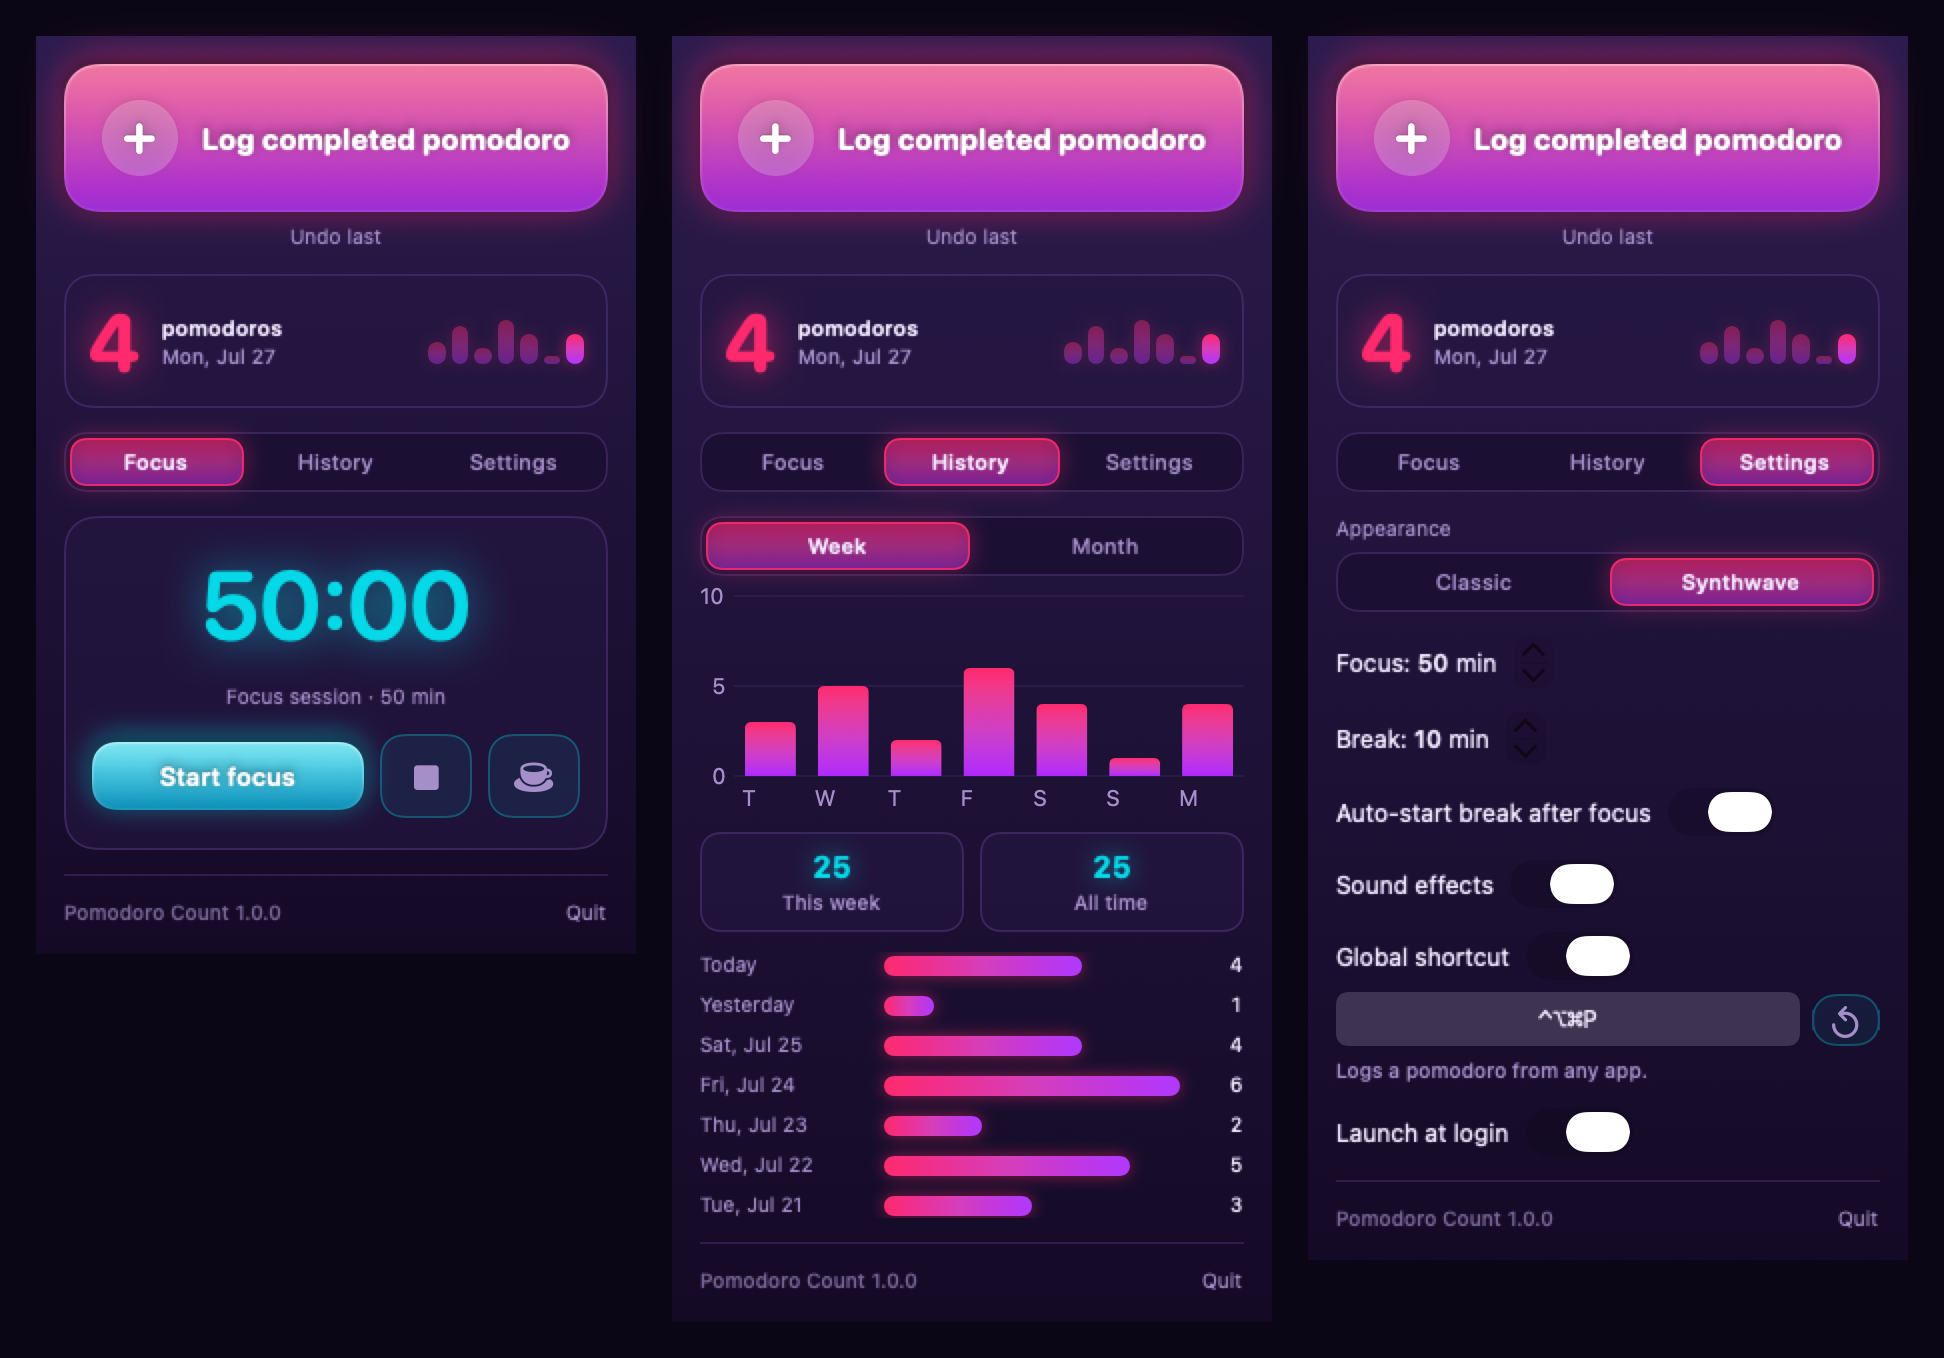
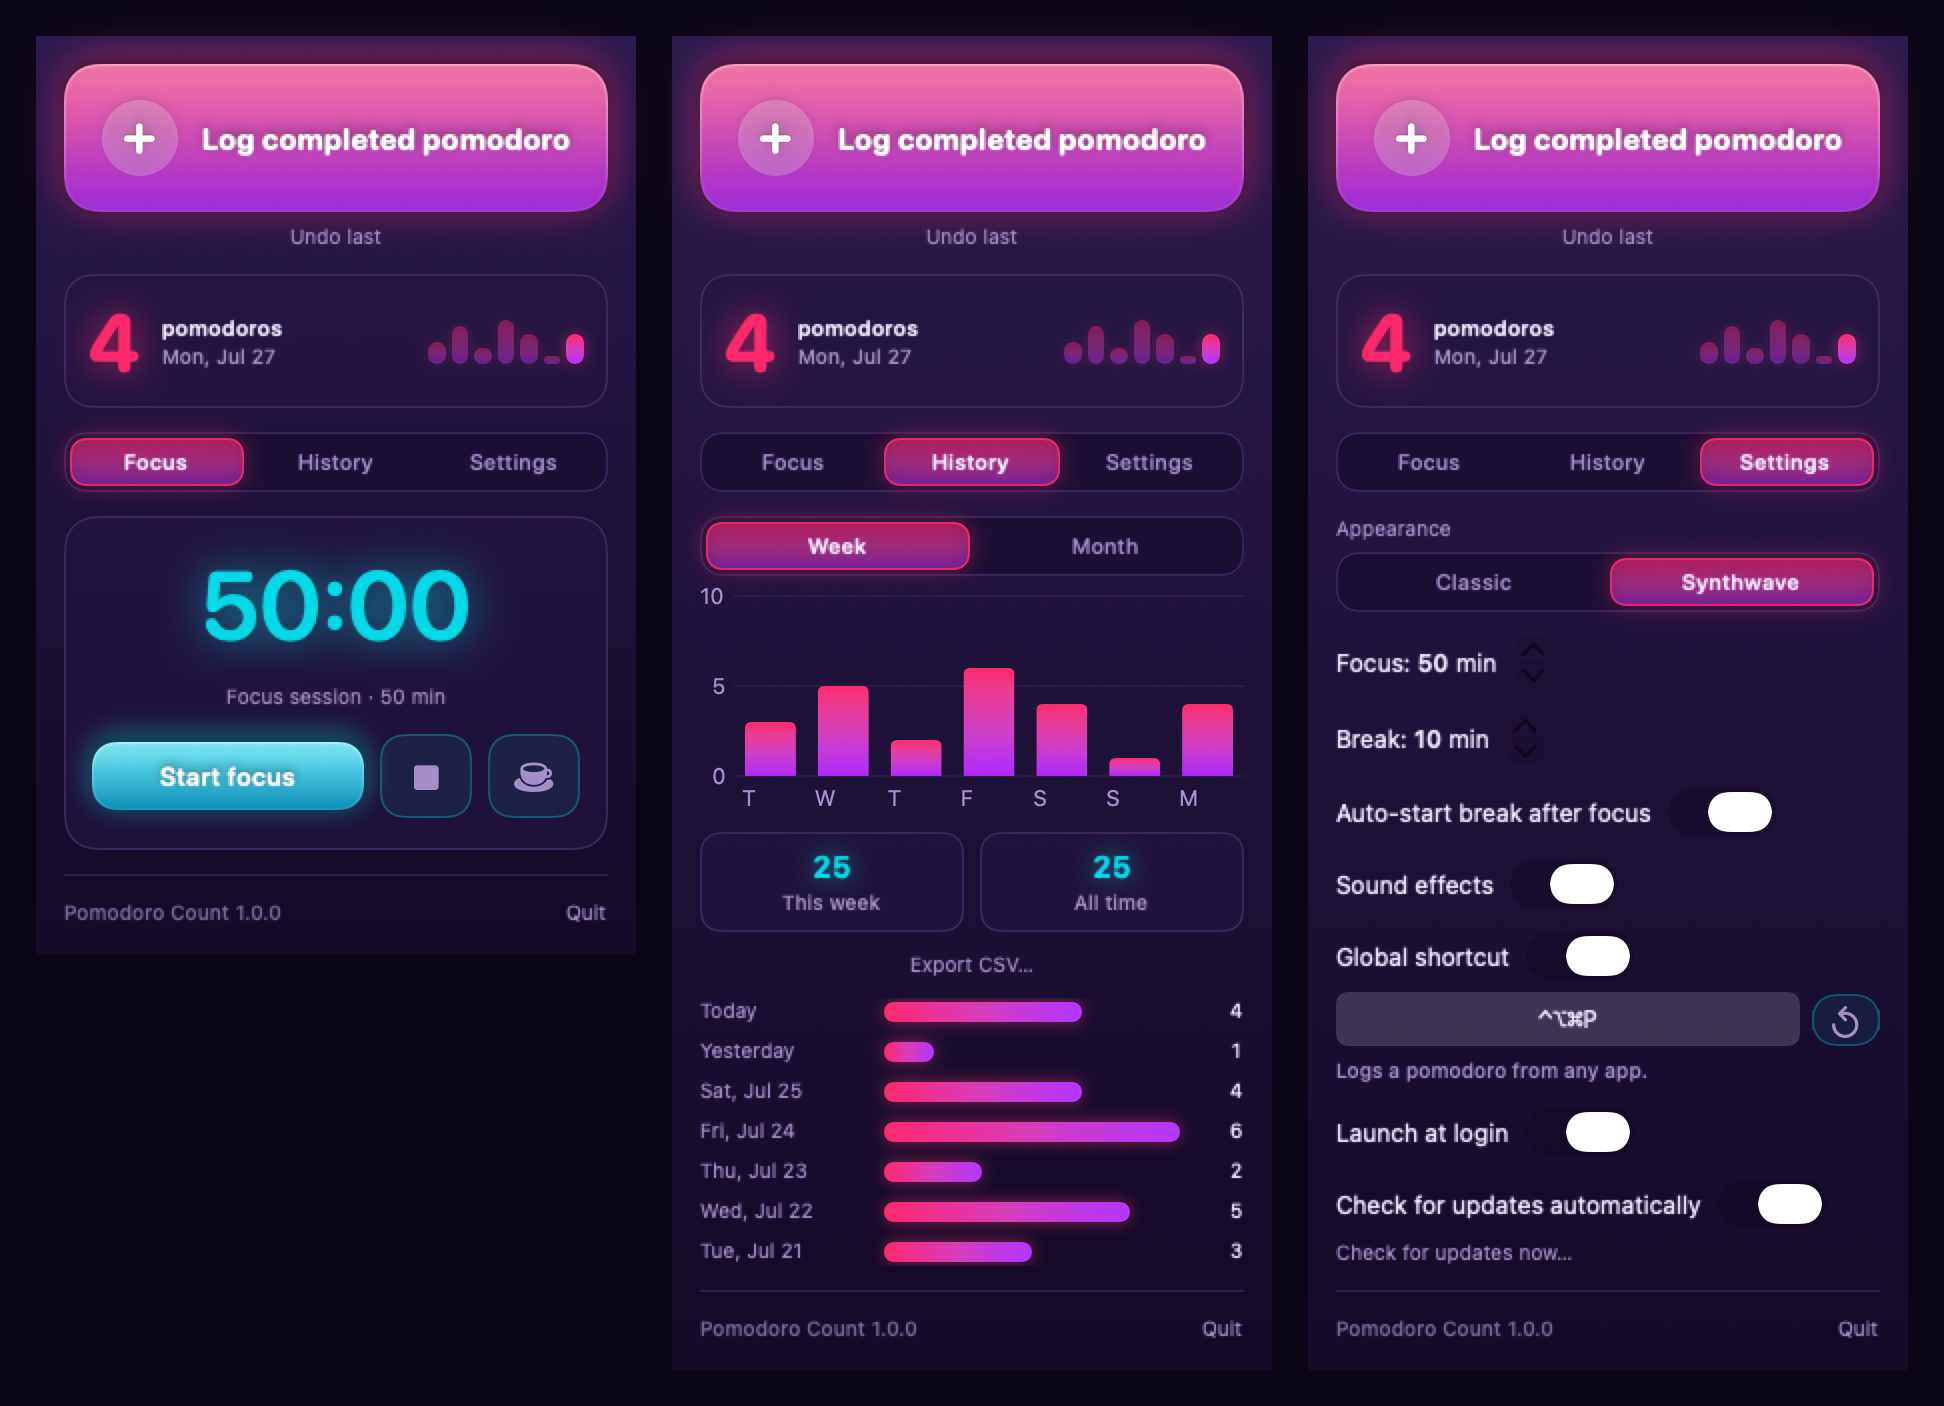
Show the updater UI in previews without starting it
isSupported was "did the updater start", which conflated two questions: a
preview render should draw the real Settings tab while staying off the
network. It now asks whether the bundle is configured, and only the
controller creation checks for a render -- so screenshots show what ships.

Screenshots regenerated with Export CSV and the update controls visible.

diff --git a/Sources/PomodoroCount/Updater.swift b/Sources/PomodoroCount/Updater.swift
@@ -18,22 +18,26 @@ final class Updater: ObservableObject {
         didSet { controller?.updater.automaticallyChecksForUpdates = checksAutomatically }
     }
 
-    var isSupported: Bool { controller != nil }
+    /// Whether to show the updater controls at all.
+    ///
+    /// Deliberately not `controller != nil`: a preview render should draw the
+    /// real UI without starting an updater that would reach the network, so the
+    /// two questions are kept apart.
+    var isSupported: Bool { Self.isConfigured }
 
     private init() {
-        controller = Self.isConfigured
+        controller = (Self.isConfigured && !PreviewOverrides.isRendering)
             ? SPUStandardUpdaterController(
                 startingUpdater: true, updaterDelegate: nil, userDriverDelegate: nil)
             : nil
-        checksAutomatically = controller?.updater.automaticallyChecksForUpdates ?? false
+        checksAutomatically = controller?.updater.automaticallyChecksForUpdates ?? true
     }
 
     /// Sparkle needs both a feed to read and a public key to verify what it
-    /// downloads. Without the key it would refuse the update anyway, so don't
-    /// start it — better no button than a button that always fails.
+    /// downloads. Without the key it would refuse every update anyway, so the
+    /// app hides the controls — better no button than one that always fails.
     private static var isConfigured: Bool {
-        guard !PreviewOverrides.isRendering,
-              let info = Bundle.main.infoDictionary,
+        guard let info = Bundle.main.infoDictionary,
               let feed = info["SUFeedURL"] as? String, !feed.isEmpty,
               let key = info["SUPublicEDKey"] as? String, !key.isEmpty
         else { return false }
